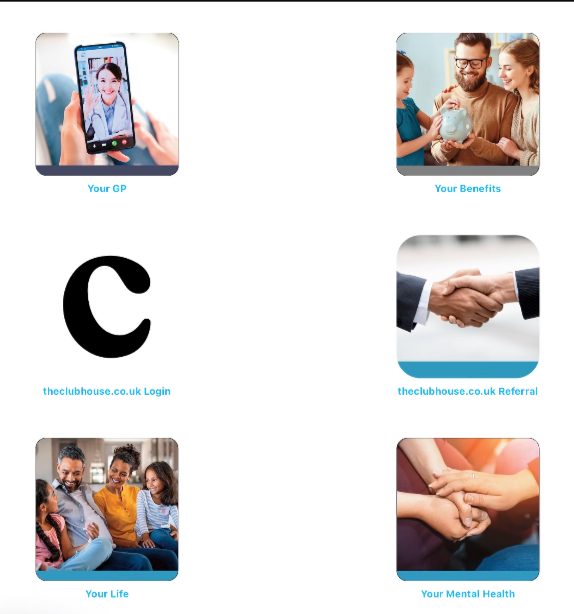
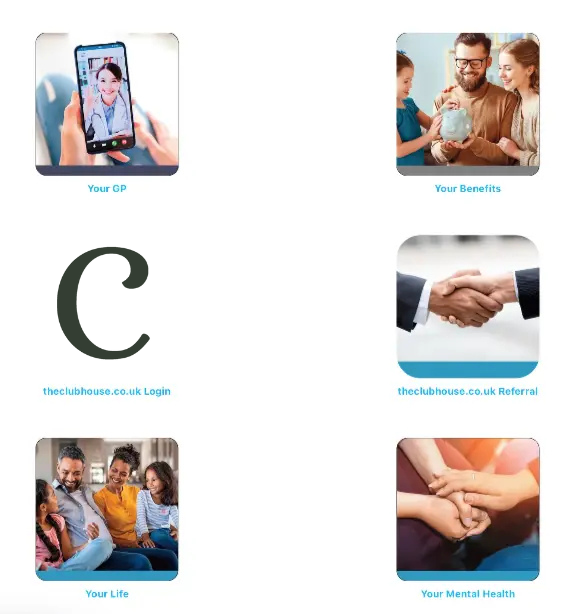
add

diff --git a/src/app/components/ui/features.js b/src/app/components/ui/features.js
@@ -102,20 +102,17 @@ const FeatureDescription = ({ children }) => {
 export const SkeletonOne = () => {
   return (
     <div className="relative flex py-8 px-2 gap-10 h-full">
-      <div className="w-full p-5 mx-auto bg-white dark:bg-neutral-900 shadow-2xl group h-full">
+      <div className="w-full p-5 mx-auto bg-white group h-full">
         <div className="flex flex-1 w-full h-full flex-col space-y-2">
           <Image
             src="/app-screen.png"
             alt="Club dashboard preview"
             width={800}
             height={800}
-            className="h-full w-full aspect-square object-cover object-left-top rounded-sm"
+            className="h-full w-full aspect-square top-12 object-cover object-left-top"
           />
         </div>
       </div>
-
-      <div className="absolute bottom-0 z-40 inset-x-0 h-60 bg-gradient-to-t from-white dark:from-black via-white dark:via-black to-transparent w-full pointer-events-none" />
-      <div className="absolute top-0 z-40 inset-x-0 h-60 bg-gradient-to-b from-white dark:from-black via-transparent to-transparent w-full pointer-events-none" />
     </div>
   );
 };

diff --git a/src/app/components/ui/card.js b/src/app/components/ui/card.js
@@ -114,7 +114,7 @@ export const CardSection = () => {
                   }}
                 >
                   <Image
-                    src="https://irp.cdn-website.com/93173ee8/dms3rep/multi/Black+logo+-+no+background.svg"
+                    src="/Logo.png"
                     alt="Clubhouse Logo"
                     width={100}
                     height={100}
